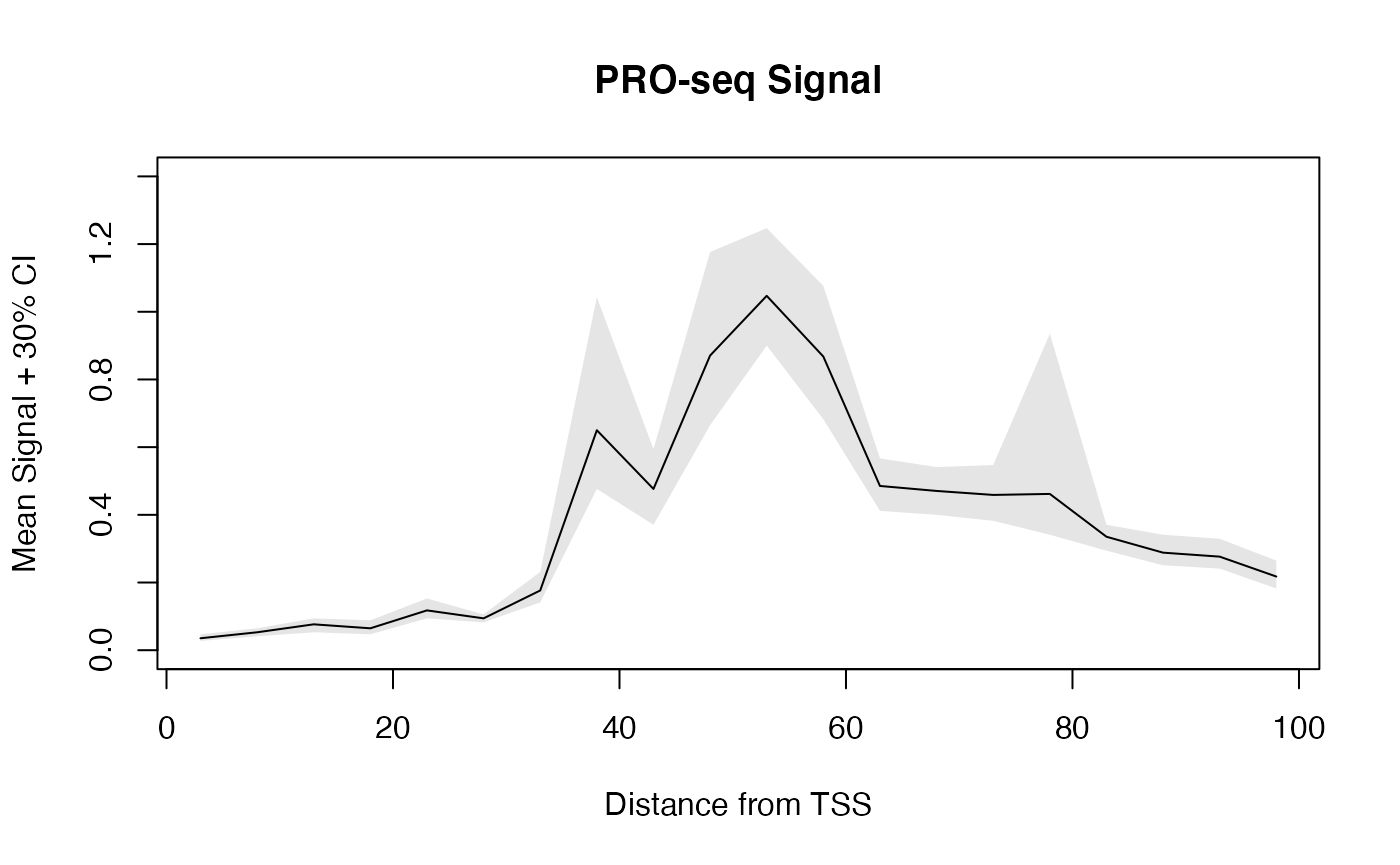
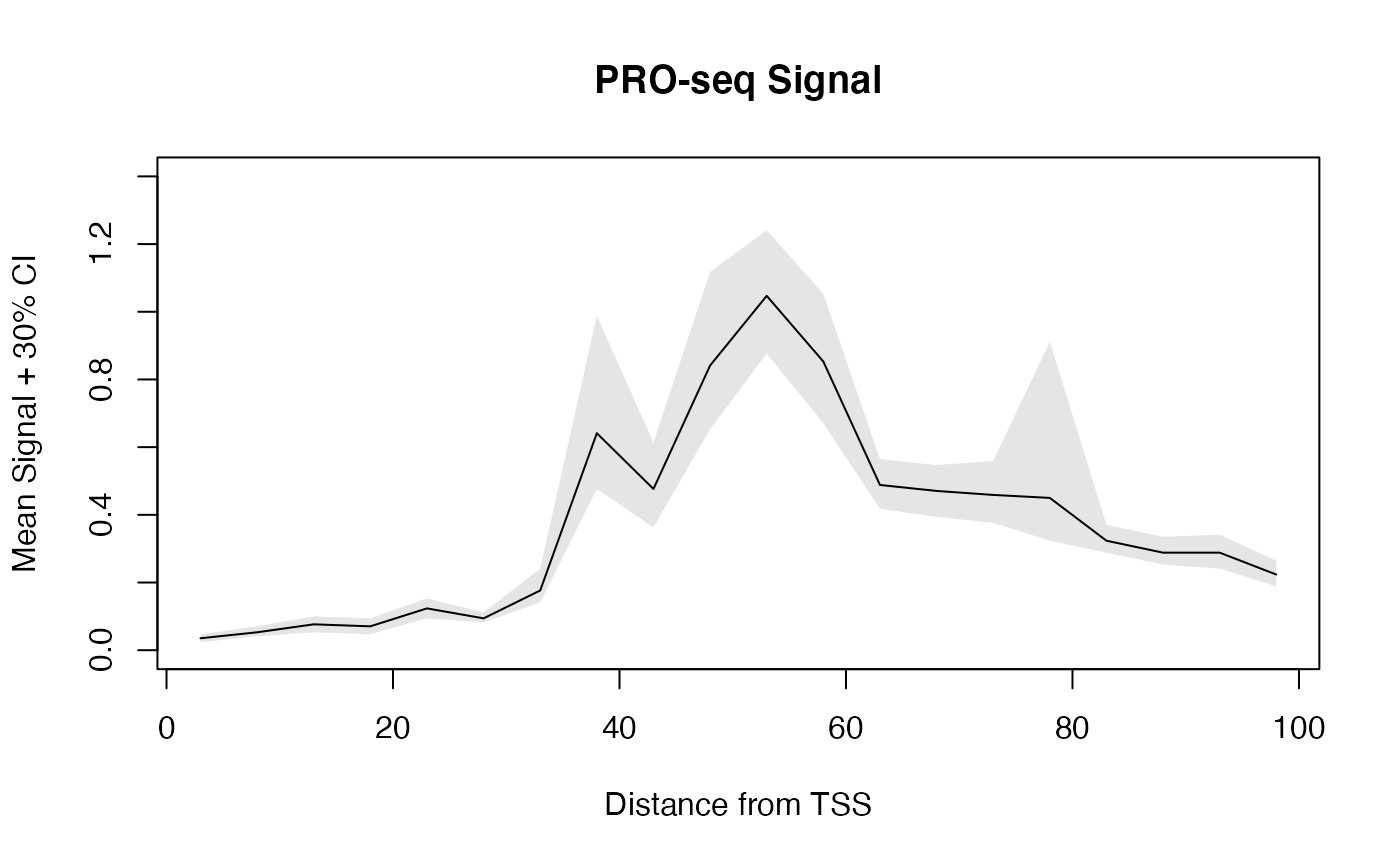
update versions for bioc release 3.17

diff --git a/articles/ProfilePlotsAndBootstrapping.html b/articles/ProfilePlotsAndBootstrapping.html
@@ -33,7 +33,7 @@
       </button>
       <span class="navbar-brand">
         <a class="navbar-link" href="../index.html">BRGenomics</a>
-        <span class="version label label-default" data-toggle="tooltip" data-placement="bottom" title="">1.11.1</span>
+        <span class="version label label-default" data-toggle="tooltip" data-placement="bottom" title="">1.12.0</span>
       </span>
     </div>
 
@@ -190,12 +190,12 @@
 <span>                              lower <span class="op">=</span> <span class="fl">0.35</span>, upper <span class="op">=</span> <span class="fl">0.65</span>, ncores <span class="op">=</span> <span class="fl">1</span><span class="op">)</span></span>
 <span><span class="fu"><a href="https://rdrr.io/r/utils/head.html" class="external-link">head</a></span><span class="op">(</span><span class="va">bootmeans.df</span><span class="op">)</span></span></code></pre></div>
 <pre><code><span><span class="co">##    x       mean      lower      upper sample.name</span></span>
-<span><span class="co">## 1  3 0.03529412 0.02735294 0.04705882      PROseq</span></span>
-<span><span class="co">## 2  8 0.05294118 0.04117647 0.06470588      PROseq</span></span>
-<span><span class="co">## 3 13 0.07647059 0.05294118 0.09411765      PROseq</span></span>
-<span><span class="co">## 4 18 0.06470588 0.04705882 0.08823529      PROseq</span></span>
-<span><span class="co">## 5 23 0.11764706 0.09411765 0.15294118      PROseq</span></span>
-<span><span class="co">## 6 28 0.09411765 0.08235294 0.10588235      PROseq</span></span></code></pre>
+<span><span class="co">## 1  3 0.03529412 0.02352941 0.04705882      PROseq</span></span>
+<span><span class="co">## 2  8 0.05294118 0.04117647 0.07058824      PROseq</span></span>
+<span><span class="co">## 3 13 0.07647059 0.05294118 0.10000000      PROseq</span></span>
+<span><span class="co">## 4 18 0.07058824 0.04705882 0.09411765      PROseq</span></span>
+<span><span class="co">## 5 23 0.12352941 0.09411765 0.15294118      PROseq</span></span>
+<span><span class="co">## 6 28 0.09411765 0.08235294 0.11176471      PROseq</span></span></code></pre>
 <p>A dataframe is returned for plotting, and notice how the x-values have been automatically adjusted to be the center of the bins.</p>
 <p>Below, we show how to plot the confidence bands using base R plotting, as well as <code>ggplot2</code>.</p>
 <div class="sourceCode" id="cb7"><pre class="downlit sourceCode r">
@@ -241,9 +241,9 @@
 <span><span class="co">## 1  3 0.01176471 0.005882353 0.01764706         ps1</span></span>
 <span><span class="co">## 2  8 0.01764706 0.011764706 0.02352941         ps1</span></span>
 <span><span class="co">## 3 13 0.01764706 0.011764706 0.02352941         ps1</span></span>
-<span><span class="co">## 4 18 0.04117647 0.023529412 0.05294118         ps1</span></span>
-<span><span class="co">## 5 23 0.03529412 0.023529412 0.04705882         ps1</span></span>
-<span><span class="co">## 6 28 0.02941176 0.023529412 0.03529412         ps1</span></span></code></pre>
+<span><span class="co">## 4 18 0.03529412 0.023529412 0.04705882         ps1</span></span>
+<span><span class="co">## 5 23 0.02941176 0.017647059 0.05294118         ps1</span></span>
+<span><span class="co">## 6 28 0.02941176 0.023529412 0.04117647         ps1</span></span></code></pre>
 <div class="sourceCode" id="cb15"><pre class="downlit sourceCode r">
 <code class="sourceCode R"><span><span class="kw"><a href="https://rdrr.io/r/base/library.html" class="external-link">require</a></span><span class="op">(</span><span class="va"><a href="https://ggplot2.tidyverse.org" class="external-link">ggplot2</a></span><span class="op">)</span></span>
 <span><span class="fu"><a href="https://ggplot2.tidyverse.org/reference/ggplot.html" class="external-link">ggplot</a></span><span class="op">(</span><span class="va">bm_list.df</span>, <span class="fu"><a href="https://ggplot2.tidyverse.org/reference/aes.html" class="external-link">aes</a></span><span class="op">(</span><span class="va">x</span>, <span class="va">mean</span>, color <span class="op">=</span> <span class="va">sample.name</span><span class="op">)</span><span class="op">)</span> <span class="op">+</span> </span>

diff --git a/index.html b/index.html
@@ -43,7 +43,7 @@
       </button>
       <span class="navbar-brand">
         <a class="navbar-link" href="index.html">BRGenomics</a>
-        <span class="version label label-default" data-toggle="tooltip" data-placement="bottom" title="">1.11.1</span>
+        <span class="version label label-default" data-toggle="tooltip" data-placement="bottom" title="">1.12.0</span>
       </span>
     </div>
 
@@ -198,9 +198,9 @@
 <h2 data-toc-skip>Dev status</h2>
 <ul class="list-unstyled">
 <li><a href="https://bioconductor.org/checkResults/release/bioc-LATEST/BRGenomics/" class="external-link"><img src="https://img.shields.io/badge/platforms-linux%20%7C%20osx%20%7C%20win-yellow.svg" alt="platforms"></a></li>
-<li><a href="https://www.bioconductor.org/packages/BRGenomics" class="external-link"><img src="https://img.shields.io/badge/release%20version-1.10.1-navy.svg" alt="release"></a></li>
+<li><a href="https://www.bioconductor.org/packages/BRGenomics" class="external-link"><img src="https://img.shields.io/badge/release%20version-1.12.0-navy.svg" alt="release"></a></li>
 <li><a href="http://bioconductor.org/checkResults/devel/bioc-LATEST/BRGenomics/" class="external-link"><img src="http://www.bioconductor.org/shields/lastcommit/release/bioc/BRGenomics.svg" alt="updated"></a></li>
-<li><a href="https://github.com/mdeber/BRGenomics" class="external-link"><img src="https://img.shields.io/badge/devel%20version-1.11.1-orange.svg" alt="devel"></a></li>
+<li><a href="https://github.com/mdeber/BRGenomics" class="external-link"><img src="https://img.shields.io/badge/devel%20version-1.13.0-orange.svg" alt="devel"></a></li>
 <li><a href="https://github.com/mdeber/BRGenomics/commits/master" class="external-link"><img src="https://img.shields.io/github/last-commit/mdeber/BRGenomics.svg" alt="last commit"></a></li>
 <li><a href="https://bioconductor.org/checkResults/release/bioc-LATEST/BRGenomics/" class="external-link"><img src="http://www.bioconductor.org/shields/build/release/bioc/BRGenomics.svg" alt="BioC status"></a></li>
 <li><a href="https://codecov.io/gh/mdeber/BRGenomics" class="external-link"><img src="https://codecov.io/gh/mdeber/BRGenomics/branch/master/graph/badge.svg" alt="test coverage"></a></li>

diff --git a/authors.html b/authors.html
@@ -17,7 +17,7 @@
       </button>
       <span class="navbar-brand">
         <a class="navbar-link" href="index.html">BRGenomics</a>
-        <span class="version label label-default" data-toggle="tooltip" data-placement="bottom" title="">1.11.1</span>
+        <span class="version label label-default" data-toggle="tooltip" data-placement="bottom" title="">1.12.0</span>
       </span>
     </div>
 
@@ -106,13 +106,13 @@
 
     <p>DeBerardine M (2023).
 <em>BRGenomics: Tools for the Efficient Analysis of High-Resolution Genomics Data</em>.
-R package version 1.11.1, <a href="https://mdeber.github.io" class="external-link">https://mdeber.github.io</a>. 
+R package version 1.12.0, <a href="https://mdeber.github.io" class="external-link">https://mdeber.github.io</a>. 
 </p>
     <pre>@Manual{,
   title = {BRGenomics: Tools for the Efficient Analysis of High-Resolution Genomics Data},
   author = {Mike DeBerardine},
   year = {2023},
-  note = {R package version 1.11.1},
+  note = {R package version 1.12.0},
   url = {https://mdeber.github.io},
 }</pre>
 

diff --git a/reference/applyNFsGRanges.html b/reference/applyNFsGRanges.html
@@ -18,7 +18,7 @@ object by their normalization factors."><!-- mathjax --><script src="https://cdn
       </button>
       <span class="navbar-brand">
         <a class="navbar-link" href="../index.html">BRGenomics</a>
-        <span class="version label label-default" data-toggle="tooltip" data-placement="bottom" title="">1.11.1</span>
+        <span class="version label label-default" data-toggle="tooltip" data-placement="bottom" title="">1.12.0</span>
       </span>
     </div>
 

diff --git a/reference/binNdimensions.html b/reference/binNdimensions.html
@@ -18,7 +18,7 @@ summarize the datapoints that fall into any of these n-dimensional bins."><!-- m
       </button>
       <span class="navbar-brand">
         <a class="navbar-link" href="../index.html">BRGenomics</a>
-        <span class="version label label-default" data-toggle="tooltip" data-placement="bottom" title="">1.11.1</span>
+        <span class="version label label-default" data-toggle="tooltip" data-placement="bottom" title="">1.12.0</span>
       </span>
     </div>
 

diff --git a/reference/bootstrap-signal-by-position.html b/reference/bootstrap-signal-by-position.html
@@ -21,7 +21,7 @@ base-pair resolution, or over larger bins."><!-- mathjax --><script src="https:/
       </button>
       <span class="navbar-brand">
         <a class="navbar-link" href="../index.html">BRGenomics</a>
-        <span class="version label label-default" data-toggle="tooltip" data-placement="bottom" title="">1.11.1</span>
+        <span class="version label label-default" data-toggle="tooltip" data-placement="bottom" title="">1.12.0</span>
       </span>
     </div>
 

diff --git a/reference/genebodies.html b/reference/genebodies.html
@@ -18,7 +18,7 @@ start and end sites of regions of interest (usually genes)."><!-- mathjax --><sc
       </button>
       <span class="navbar-brand">
         <a class="navbar-link" href="../index.html">BRGenomics</a>
-        <span class="version label label-default" data-toggle="tooltip" data-placement="bottom" title="">1.11.1</span>
+        <span class="version label label-default" data-toggle="tooltip" data-placement="bottom" title="">1.12.0</span>
       </span>
     </div>
 

diff --git a/reference/getCountsByPositions.html b/reference/getCountsByPositions.html
@@ -22,7 +22,7 @@ getCountsByRegions."><!-- mathjax --><script src="https://cdnjs.cloudflare.com/a
       </button>
       <span class="navbar-brand">
         <a class="navbar-link" href="../index.html">BRGenomics</a>
-        <span class="version label label-default" data-toggle="tooltip" data-placement="bottom" title="">1.11.1</span>
+        <span class="version label label-default" data-toggle="tooltip" data-placement="bottom" title="">1.12.0</span>
       </span>
     </div>
 

diff --git a/reference/getDESeqDataSet.html b/reference/getDESeqDataSet.html
@@ -19,7 +19,7 @@ regions."><!-- mathjax --><script src="https://cdnjs.cloudflare.com/ajax/libs/ma
       </button>
       <span class="navbar-brand">
         <a class="navbar-link" href="../index.html">BRGenomics</a>
-        <span class="version label label-default" data-toggle="tooltip" data-placement="bottom" title="">1.11.1</span>
+        <span class="version label label-default" data-toggle="tooltip" data-placement="bottom" title="">1.12.0</span>
       </span>
     </div>
 

diff --git a/reference/getDESeqResults.html b/reference/getDESeqResults.html
@@ -23,7 +23,7 @@ being compared, and not for all samples present."><!-- mathjax --><script src="h
       </button>
       <span class="navbar-brand">
         <a class="navbar-link" href="../index.html">BRGenomics</a>
-        <span class="version label label-default" data-toggle="tooltip" data-placement="bottom" title="">1.11.1</span>
+        <span class="version label label-default" data-toggle="tooltip" data-placement="bottom" title="">1.12.0</span>
       </span>
     </div>
 

diff --git a/reference/getMaxPositionsBySignal.html b/reference/getMaxPositionsBySignal.html
@@ -19,7 +19,7 @@ larger bins."><!-- mathjax --><script src="https://cdnjs.cloudflare.com/ajax/lib
       </button>
       <span class="navbar-brand">
         <a class="navbar-link" href="../index.html">BRGenomics</a>
-        <span class="version label label-default" data-toggle="tooltip" data-placement="bottom" title="">1.11.1</span>
+        <span class="version label label-default" data-toggle="tooltip" data-placement="bottom" title="">1.12.0</span>
       </span>
     </div>
 

diff --git a/reference/getPausingIndices.html b/reference/getPausingIndices.html
@@ -23,7 +23,7 @@ calculated."><!-- mathjax --><script src="https://cdnjs.cloudflare.com/ajax/libs
       </button>
       <span class="navbar-brand">
         <a class="navbar-link" href="../index.html">BRGenomics</a>
-        <span class="version label label-default" data-toggle="tooltip" data-placement="bottom" title="">1.11.1</span>
+        <span class="version label label-default" data-toggle="tooltip" data-placement="bottom" title="">1.12.0</span>
       </span>
     </div>
 
